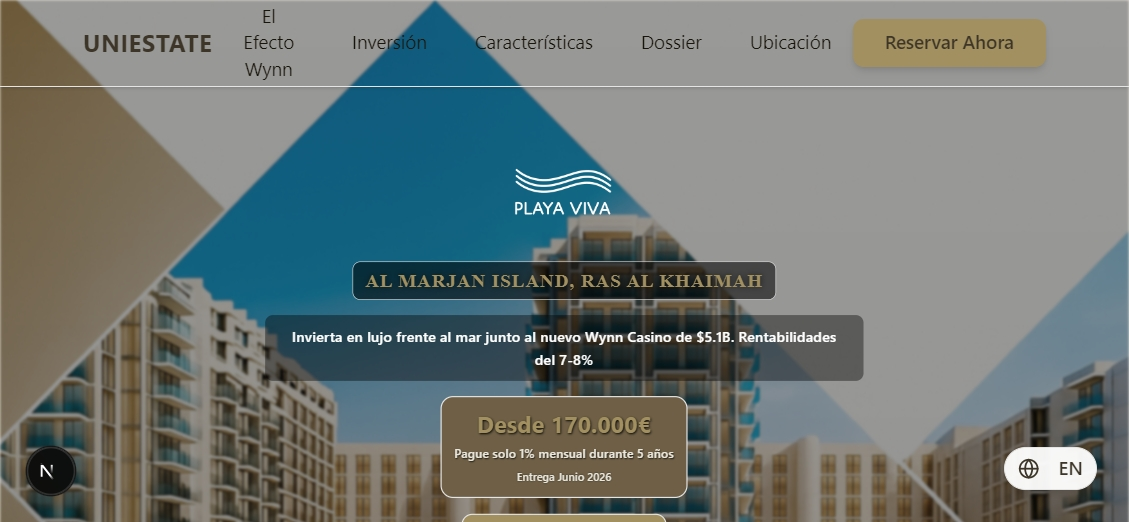
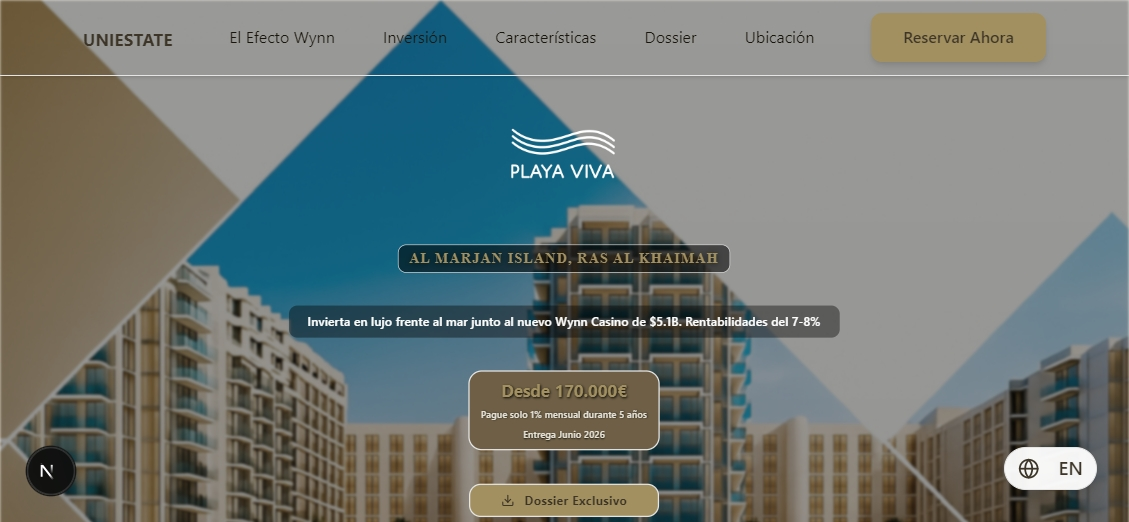
Modo responsive 100%

diff --git a/app/page.tsx b/app/page.tsx
@@ -35,7 +35,8 @@ export default function PlayaVivaLanding() {
   const fitHeroToViewport = () => {
     const el = heroStackRef.current;
     if (!el) return;
-    const available = window.innerHeight - 24;
+    const navOffset = window.innerHeight <= 500 ? 80 : 24;
+    const available = window.innerHeight - navOffset;
     const rect = el.getBoundingClientRect();
     const scale = Math.min(1, available / rect.height);
     setHeroScale(scale > 0 ? scale : 1);
@@ -433,9 +434,9 @@ export default function PlayaVivaLanding() {
       </div>
 
       {/* Sticky Navigation Menu - Uniestate UK Style */}
-      <nav className="fixed top-0 left-0 right-0 z-50 bg-cream-light/98 backdrop-blur-md border-b border-brown-dark/10 shadow-sm">
-        <div className="container mx-auto px-4 md:px-6">
-          <div className="flex items-center justify-between h-14 md:h-16">
+      <nav className="landing-nav fixed top-0 left-0 right-0 z-50 bg-cream-light/98 backdrop-blur-md border-b border-brown-dark/10 shadow-sm">
+        <div className="landing-nav__inner container mx-auto px-4 md:px-6">
+          <div className="landing-nav__bar flex items-center justify-between h-14 md:h-16">
             {/* Logo Uniestate */}
             <div className="flex-shrink-0">
               <span className="text-brown-dark text-base md:text-lg font-bold tracking-tight" style={{ fontFamily: 'system-ui, -apple-system, sans-serif', letterSpacing: '0.02em' }}>
@@ -593,16 +594,16 @@ export default function PlayaVivaLanding() {
         </div>
 
         {/* Content */}
-        <div className="relative z-10 h-full flex flex-col items-center justify-center px-4">
+        <div className="hero-content relative z-10 h-full flex flex-col items-center justify-center px-4">
           <div
             ref={heroStackRef}
-            className="container max-w-6xl mx-auto"
+            className="hero-container container max-w-6xl mx-auto"
             style={{
               transform: heroScale < 1 ? `scale(${heroScale})` : undefined,
               transformOrigin: "top center",
             }}
           >
-            <div className="flex flex-col items-center justify-center text-center space-y-5 mt-0">
+            <div className="hero-stack flex flex-col items-center justify-center text-center space-y-5 mt-0">
               {/* Logo */}
               <div
                 className="transition-all duration-1000 ease-out"
@@ -638,7 +639,7 @@ export default function PlayaVivaLanding() {
                     : "translateY(30px)",
                 }}
               >
-                <div className="inline-block bg-black/65 sm:bg-black/55 rounded-lg px-3 py-1.5 sm:px-4 sm:py-2 border border-gold-warm/60 ring-2 ring-gold-warm/75 shadow-[0_0_40px_rgba(162,144,96,0.7)]">
+                <div className="hero-subtitle inline-block bg-black/65 sm:bg-black/55 rounded-lg px-3 py-1.5 sm:px-4 sm:py-2 border border-gold-warm/60 ring-2 ring-gold-warm/75 shadow-[0_0_40px_rgba(162,144,96,0.7)]">
                   <p className="font-arabic text-gold-warm text-lg sm:text-xl md:text-2xl lg:text-3xl font-semibold tracking-[0.04em] sm:tracking-[0.06em] uppercase [text-shadow:0_1px_8px_rgba(0,0,0,0.65)] sm:whitespace-nowrap">
                     {t.hero.subtitle}
                   </p>
@@ -655,7 +656,7 @@ export default function PlayaVivaLanding() {
                     : "translateY(30px)",
                 }}
               >
-                <div className="relative max-w-[94vw] sm:max-w-3xl mx-auto px-2">
+                <div className="hero-description relative max-w-[94vw] sm:max-w-3xl mx-auto px-2">
                   <div className="absolute inset-0 bg-black/40 rounded-lg" />
                   <p className="relative text-[#FFFFFF] text-[clamp(0.85rem,3.2vw,1.15rem)] font-medium leading-relaxed px-3 sm:px-6 py-2 sm:py-3 tracking-[0.01em] text-center">
                     {t.hero.description}
@@ -675,19 +676,19 @@ export default function PlayaVivaLanding() {
               >
                 <div className="relative">
                   <div
-                    className="rounded-2xl p-3 sm:p-4 shadow-2xl max-w-[90vw] sm:max-w-160 mx-auto transition-all duration-200 border-2 border-brown-dark/85 ring-2 ring-gold-warm/65 hover:-translate-y-[3px] hover:ring-gold-warm/85 hover:shadow-[0_24px_52px_rgba(0,0,0,0.6),0_0_56px_rgba(162,144,96,0.7)]"
+                    className="hero-price-card rounded-2xl p-3 sm:p-4 shadow-2xl max-w-[90vw] sm:max-w-160 mx-auto transition-all duration-200 border-2 border-brown-dark/85 ring-2 ring-gold-warm/65 hover:-translate-y-[3px] hover:ring-gold-warm/85 hover:shadow-[0_24px_52px_rgba(0,0,0,0.6),0_0_56px_rgba(162,144,96,0.7)]"
                     style={{ backgroundColor: "#6E5F46" }} // sólido y opaco garantizado
                   >
                     <div className="space-y-1.5 sm:space-y-2 text-center">
-                      <div className="text-gold-warm text-2xl sm:text-3xl md:text-3xl lg:text-4xl font-bold whitespace-nowrap [text-shadow:1px_1px_3px_rgba(0,0,0,0.9)]">
+                      <div className="hero-price-value text-gold-warm text-2xl sm:text-3xl md:text-3xl lg:text-4xl font-bold whitespace-nowrap [text-shadow:1px_1px_3px_rgba(0,0,0,0.9)]">
                         {pricePrefix}
                         {"\u00A0"}
                         {priceString}
                       </div>
-                      <div className="text-cream-light text-xs sm:text-sm md:text-base font-medium [text-shadow:1px_1px_2px_rgba(0,0,0,0.8)]">
+                      <div className="hero-price-payment text-cream-light text-xs sm:text-sm md:text-base font-medium [text-shadow:1px_1px_2px_rgba(0,0,0,0.8)]">
                         {t.hero.payment}
                       </div>
-                      <div className="text-cream-light text-xs sm:text-xs md:text-sm font-medium [text-shadow:0_1px_2px_rgba(0,0,0,0.85)]">
+                      <div className="hero-price-handover text-cream-light text-xs sm:text-xs md:text-sm font-medium [text-shadow:0_1px_2px_rgba(0,0,0,0.85)]">
                         {t.hero.handover}
                       </div>
                     </div>
@@ -709,7 +710,7 @@ export default function PlayaVivaLanding() {
                   <Button
                     onClick={() => scrollToSection("dossier")}
                     size="lg"
-                    className="bg-gold-warm text-brown-dark font-bold antialiased tracking-wide px-10 py-4 text-base sm:text-lg rounded-xl border-2 border-brown-dark/85 ring-2 ring-gold-warm/65 shadow-2xl transition-all duration-200 hover:bg-gold-warm/80 hover:-translate-y-1 hover:shadow-[0_22px_48px_rgba(0,0,0,0.55),0_0_48px_rgba(162,144,96,0.65)] hover:ring-gold-warm/85 hover:scale-105"
+                    className="hero-cta bg-gold-warm text-brown-dark font-bold antialiased tracking-wide px-10 py-4 text-base sm:text-lg rounded-xl border-2 border-brown-dark/85 ring-2 ring-gold-warm/65 shadow-2xl transition-all duration-200 hover:bg-gold-warm/80 hover:-translate-y-1 hover:shadow-[0_22px_48px_rgba(0,0,0,0.55),0_0_48px_rgba(162,144,96,0.65)] hover:ring-gold-warm/85 hover:scale-105"
                   >
                     <span className="flex items-center gap-3">
                       <Download className="h-5 w-5" />
@@ -719,7 +720,7 @@ export default function PlayaVivaLanding() {
 
                   {/* Scroll Indicator (sm+) */}
                   <div
-                    className="mt-2 hidden sm:flex justify-center pointer-events-none animate-bounce"
+                    className="hero-scroll-indicator mt-2 hidden sm:flex justify-center pointer-events-none animate-bounce"
                     style={{
                       opacity: animationStates.scrollIndicator ? 1 : 0,
                       transform: animationStates.scrollIndicator

diff --git a/app/globals.css b/app/globals.css
@@ -224,11 +224,97 @@ body {
   background-color: var(--olive-brown);
 }
 
-/* Fix for mobile landscape - prevent menu overlap with Playa Viva logo */
+/* Fix for mobile landscape - keep hero fully visible */
 /* iPhone 12 Pro landscape: 844x390px */
-/* Balance: separar menú del logo pero mantener contenido visible */
 @media (max-height: 500px) and (max-width: 900px) {
+  .landing-nav {
+    padding-top: 0.25rem;
+    padding-bottom: 0.25rem;
+  }
+
+  .landing-nav__bar {
+    height: 3rem !important;
+  }
+
+  .landing-nav__bar > .flex-shrink-0 span {
+    font-size: 0.78rem !important;
+  }
+
+  .landing-nav__bar button,
+  .landing-nav__bar .bg-gold-warm {
+    font-size: 0.75rem !important;
+    padding-top: 0.3rem !important;
+    padding-bottom: 0.3rem !important;
+  }
+
+  .landing-nav__inner .md\:hidden {
+    padding: 0.25rem;
+  }
+
   .hero-section {
-    padding-top: 4.5rem !important;
+    padding-top: 1.85rem !important;
+    padding-bottom: 1rem;
+    min-height: auto;
+  }
+
+  .hero-content {
+    justify-content: flex-start;
+    padding-top: 0.5rem;
+    padding-bottom: 0.5rem;
+  }
+
+  .hero-container {
+    transform-origin: top center !important;
+  }
+
+  .hero-stack {
+    align-items: center;
+    gap: 0.6rem;
+  }
+
+  .hero-stack > * + * {
+    margin-top: 0.6rem !important;
+  }
+
+  .hero-subtitle {
+    padding: 0.3rem 0.8rem;
+  }
+
+  .hero-subtitle p {
+    font-size: clamp(0.85rem, 2.4vw, 1.05rem);
+    letter-spacing: 0.08em;
+  }
+
+  .hero-description p {
+    font-size: 0.9rem;
+    line-height: 1.3;
+    padding: 0.6rem 0.9rem;
+  }
+
+  .hero-price-card {
+    padding: 0.6rem 0.85rem !important;
+  }
+
+  .hero-price-card .hero-price-value {
+    font-size: 1.25rem;
+  }
+
+  .hero-price-card .hero-price-payment,
+  .hero-price-card .hero-price-handover {
+    font-size: 0.7rem;
+  }
+
+  .hero-cta {
+    padding: 0.65rem 2.3rem;
+    font-size: 0.9rem;
+  }
+
+  .hero-scroll-indicator {
+    display: flex !important;
+    margin-top: 0.35rem;
+  }
+
+  .hero-scroll-indicator > div {
+    transform: scale(0.85);
   }
 }

diff --git a/AGENTS.md b/AGENTS.md
@@ -1,0 +1,21 @@
+# Repository Guidelines
+
+## Project Structure & Module Organization
+
+This Next.js 16 App Router project keeps route segments, layout logic, and server components under `app/`. Shared UI pieces generated from v0 live in `components/`, while reusable helpers sit in `lib/`. Static marketing copy, CSVs, and downloadable assets go into `public/` for direct serving and `assets/` for raw design exports. Tailwind layers, tokens, and one-off overrides reside in `styles/`. Keep screenshots or large captures out of Git by parking them inside `assets/capturas/` and referencing optimized variants within `public/`.
+
+## Build, Test, and Development Commands
+
+Run `npm install` once per environment. `npm run dev` starts the local Vercel-style dev server on port 3000 with hot reloading. `npm run build` performs the production Next.js build used by Vercel (failures block deploys). `npm run start` serves the output of `next build` for smoke tests. `npm run lint` executes ESLint with the Next.js config and TypeScript checks; treat warnings as blockers before pushing.
+
+## Coding Style & Naming Conventions
+
+Use TypeScript + React Server Components where practical; client components must include "use client". Stick to functional components, hooks, and 2-space indentation. Component files should be PascalCase (e.g., `HeroBanner.tsx`), hooks use `useVerbNoun`, and utility modules are camelCase. Tailwind classes belong in `className` strings; extract shared styles into `styles/*.css` only when utility-first composition becomes noisy. Run `npm run lint` before committing to auto-fix trivial style issues.
+
+## Testing Guidelines
+
+There is no dedicated test runner yet, so combine `npm run lint` with manual responsive checks using Vercel previews. Document new components with quick viewport notes (e.g., "validated at 390px and 1440px") inside the pull request. Add unit tests under `__tests__/` if you introduce logic-heavy helpers in `lib/`; name files `<module>.test.ts`.
+
+## Commit & Pull Request Guidelines
+
+Recent history favors short, imperative Spanish summaries (e.g., `Balance padding iPhone landscape`). Keep commits scoped to a single UI or layout concern and reference the screen width/device touched. Pull requests should include: purpose, affected routes or sections, screenshots for each breakpoint touched, and links to any related Vercel preview or issue. Request a review before merging even for minor styling changes.
